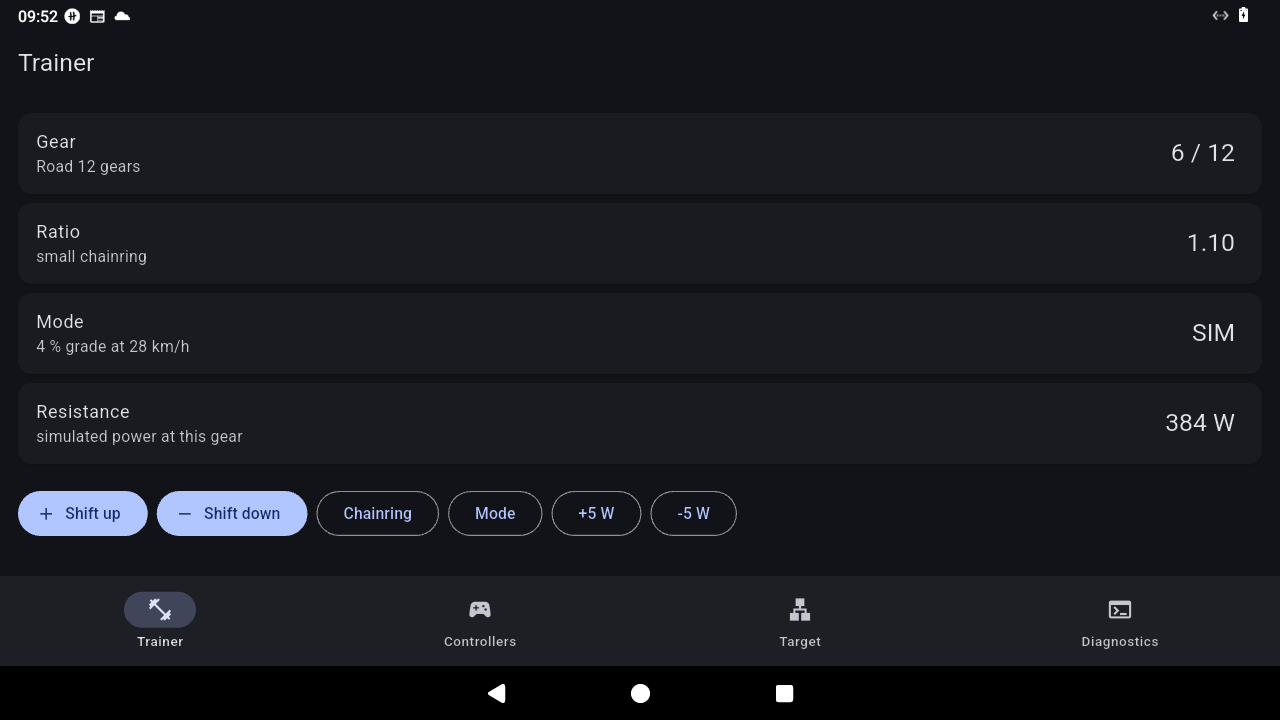
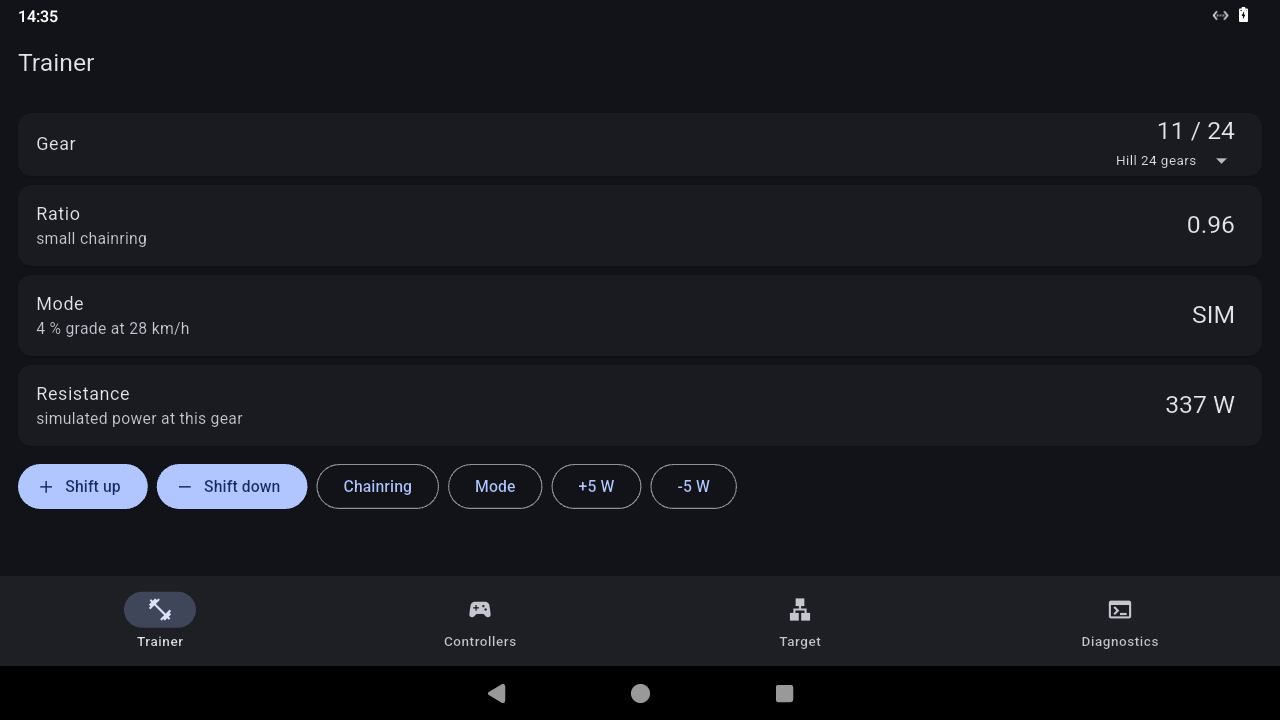
docs: settings, profile selector and 0.3.0 changelog

diff --git a/README.md b/README.md
@@ -10,7 +10,7 @@ Gears go up and down, intersection directions get chosen, the smart trainer foll
 [![iOS build](https://github.com/Atlanwhite147/openzclick/actions/workflows/ios.yml/badge.svg)](https://github.com/Atlanwhite147/openzclick/actions/workflows/ios.yml)
 [![License: MIT](https://img.shields.io/badge/license-MIT-blue.svg)](LICENSE)
 [![Platforms](https://img.shields.io/badge/platforms-Android%20%7C%20iOS%20%7C%20Windows%20%7C%20macOS-2f6fed)](#download)
-[![Tests](https://img.shields.io/badge/tests-300%20passing-brightgreen)](#status)
+[![Tests](https://img.shields.io/badge/tests-306%20passing-brightgreen)](#status)
 
 </div>
 
@@ -38,6 +38,7 @@ No account, no subscription, no telemetry. One Dart codebase for Android, iOS, W
 | **Open publication** | mDNS/DNS-SD announcement plus a TCP server, both in pure Dart, identical on every platform |
 | **Tap fallback** | for applications that never speak the protocol, an Android accessibility service taps their own on-screen controls if needed |
 | **Works without hardware** | the whole protocol is unit tested; a command line probe checks the network link |
+| **Settings that survive a restart** | gear profile, current gear, tap positions and publishers resume where you left them |
 | **Honest diagnostics** | live controller state, battery level, codec test bench inside the application |
 
 ## Download
@@ -121,7 +122,7 @@ Protocol facts are implemented in Dart from public interoperability notes; no th
 |---|---|---|
 | `core/` | protocol, session, gear engine, mapping, gestures | 217 |
 | `transports/` | mDNS responder, TCP server; Bluetooth, injection and proxy are interfaces | 71 |
-| `app/` | pairing, gears, publishing, tap injection, diagnostics on the four platforms | 12 |
+| `app/` | pairing, gears, publishing, tap injection, diagnostics on the four platforms | 18 |
 
 Verified on Android 13: installation, first frame, gear changes, direction choices, tap injection through the accessibility service, announcement visible from the local network and TCP handshake with a client. The Bluetooth link cannot be exercised in the test container, which has no radio; see [CONTRIBUTING.md](CONTRIBUTING.md) if you own a controller and want to help close that gap.
 
@@ -130,6 +131,7 @@ Verified on Android 13: installation, first frame, gear changes, direction choic
 - [x] binary protocol, encrypted sessions, gear engine
 - [x] two-button gestures, direction choices
 - [x] network publication in the shared core
+- [x] persisted settings and gear profile selection
 - [x] continuous Android and iOS builds
 - [x] local injection transport, with an Android accessibility service driver
 - [ ] Bluetooth peripheral backend (advertise the bridge as a trainer)

diff --git a/CHANGELOG.md b/CHANGELOG.md
@@ -2,6 +2,16 @@
 
 All notable changes to this project are documented here. The format follows [Keep a Changelog](https://keepachangelog.com/en/1.1.0/) and the project adheres to [Semantic Versioning](https://semver.org/).
 
+## [0.3.0] - 2026-10-30
+
+### Added
+- Settings survive a restart: gear profile, current gear, tap positions and whether the publishers were running.
+- Gear profile selector in the trainer screen, swapping the transmission without losing the position in the block.
+- Entitlement template and procedure for multicast on iOS (`docs/ios-multicast.md`).
+
+### Changed
+- The trainer screen is more compact, so every control fits on a phone screen.
+
 ## [Unreleased]
 
 ### Added
